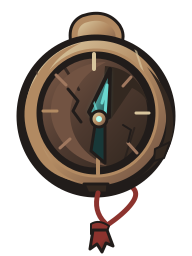
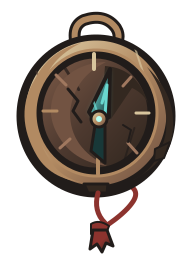
fix: correct compass open-loop material fill and retain revision-two evidence

Changed region(s): [[0.375, 0.0625, 0.625, 0.1562]]

diff --git a/benchmarks/poc005b/README.md b/benchmarks/poc005b/README.md
@@ -18,7 +18,7 @@ This is a **retrospective controlled appearance experiment** on previously autho
 
 ## Fresh self-selected original MCP trial (2026-10-08, technical only)
 
-The original **Astral Root Compass** brief was **selected by the same ChatGPT session that authored the art**, so it is NOT an evaluator-supplied blind/held-out prompt and cannot satisfy an independent Autonomy GO trial. It was supplied without coordinates or object recipes. A ChatGPT session manually authored 28 explicit Art IR nodes through nine actual local stdio MCP calls, inspected both returned PNGs, changed one cord path after noticing a disconnected tassel and explicitly assigned material gradients, clipped marks and glow to six nodes. The complete nine-file record is under `benchmarks/poc005a/runs/astral_compass_trial_20261008/`, including a SELF_REVIEW critique, two PNGs and a real MCP transcript. Run `npm test` to structurally audit it. The local trace remains `agentProvenance=UNKNOWN` and **cannot prove provider-attested authorship**.
+The original **Astral Root Compass** brief was **selected by the same ChatGPT session that authored the art**, so it is NOT an evaluator-supplied blind/held-out prompt and cannot satisfy an independent Autonomy GO trial. It was supplied without coordinates or object recipes. A ChatGPT session manually authored 28 explicit Art IR nodes and then completed three image-grounded render previews through fourteen actual local stdio MCP calls, correcting a disconnected cord and later an SVG fill-induced closed-loop regression. The original revision-2 erroneous preview is preserved as an intermediate artifact. The final appearance has five explicit gradients, nine surface marks and one glow; the sixth appearance node retains only a descriptive material tag. The complete nine-file record is under `benchmarks/poc005a/runs/astral_compass_trial_20261008/`, including a SELF_REVIEW critique, two PNGs and a real MCP transcript. Run `npm test` to structurally audit it. The local trace remains `agentProvenance=UNKNOWN` and **cannot prove provider-attested authorship**.
 
 Run `npm run poc:005b:heldout` to reconstruct the final 28-node geometry from that transcript, strip ONLY the appearance modifiers for a same-geometry baseline, validate both documents and generate four actual 64/128 PNGs with randomized blinded A/B labels. Only `generated/heldout-compass/review/` is uploaded in the separate CI reviewer artifact. Hidden mapping and source JSON live under an ignored `internal/` folder. This reviewer package is UNSCORED; no independent reviewer or visual improvement has been demonstrated. The public source could be used to recover the mapping, so blinding depends on restricting reviewer access to the reviewer package alone.
 

diff --git a/benchmarks/poc005a/runs/astral_compass_trial_20261008/critique.md b/benchmarks/poc005a/runs/astral_compass_trial_20261008/critique.md
@@ -11,3 +11,10 @@ Changed only one pre-existing geometry path, `rear_cord`, to visibly converge at
 ## Revised PNG — actual MCP result
 
 The former dangling outer red cord now curls toward the tassel and reads as part of the assembly. The bronze bezel picks up a light-to-dark directional facet, the dial looks slightly more shaded, and the spirit needle has a modest emissive accent. The object still has a nearly circular, overly clean silhouette and tightly packed marks; at 64px the new material effect may be too weak for confident identification. These are qualitative SELF_REVIEW observations; no 1–5 reviewer scores, visual GO or host-certified agent provenance is asserted. A controlled A/B must use identical FINAL geometry, not compare revision 1 against revision 2 because that also changes `rear_cord` geometry.
+
+## Second image-grounded correction — revision 3
+
+After viewing the pixel-true 64/128px blind A/B review board, I detected a new appearance-induced regression: the once-open suspension loop had become a filled brass nub. Cause: `suspension_loop_metal` is a stroke-only OPEN SVG path with `fill: none`, while `appearance.basePaint` explicitly overrides the fill, causing SVG to fill the implicitly closed outline. This is not a source-geometry mutation, but it damages silhouette clarity. I retained the exact revision-2 images as `intermediate-r2.png` and `intermediate-r2.svg` BEFORE applying the second correction.
+
+Correction: a targeted `node.update` replaced only that node's appearance with descriptive `{material:'metal'}`; no geometry, stroke width or z-order was modified. This intentionally removes gradient fill from the open stroke-only path, restoring the visible hole in the top loop. The new revision-3 preview confirms the ring is open again while the other material effects remain. The renderer contract still allows the same mistake on future paths; a dedicated future validator/tool UX design could prevent it, but this run does NOT claim a general engine fix. At 64px, the overall material difference remains subtle and external ratings are pending.
+
